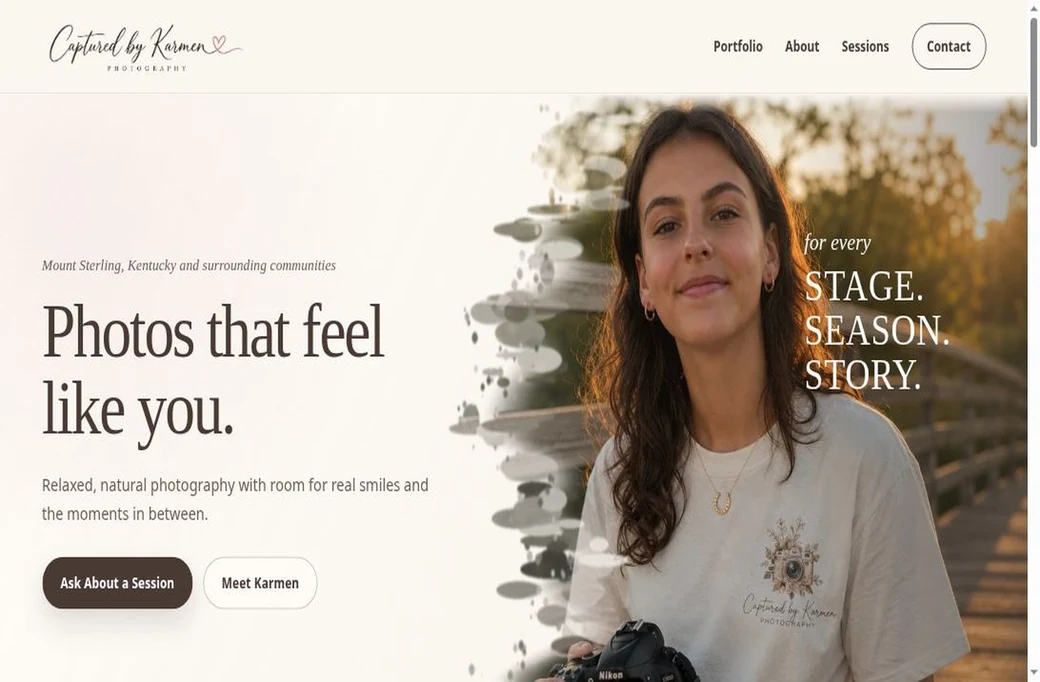
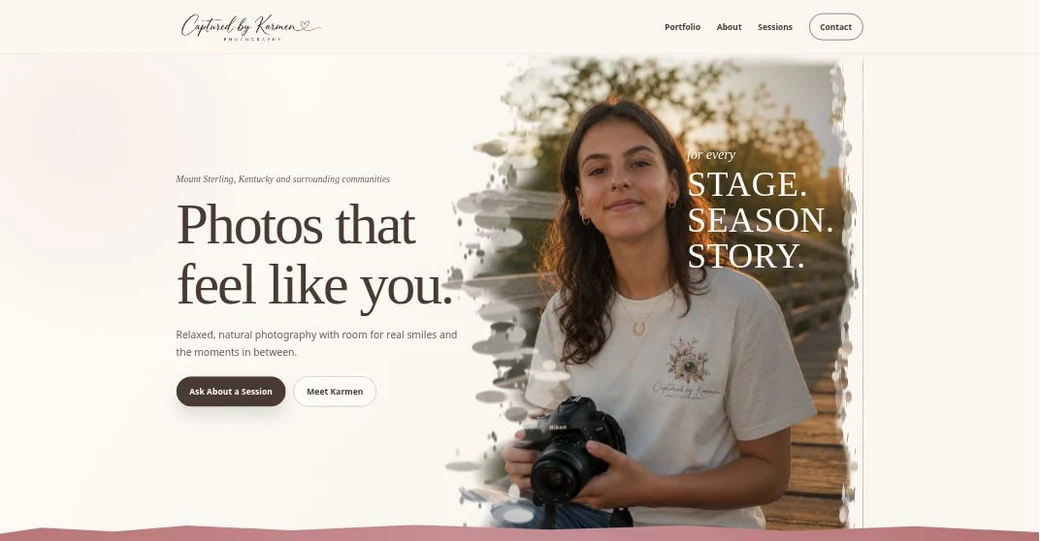
Update the Karmen portfolio screenshot and preserve its real proportions

diff --git a/our-work/index.html b/our-work/index.html
@@ -186,7 +186,7 @@ body:is(.our-work-page,.service-scope-page,.about-page) .footer-bottom{box-shado
         <p class="work-selection-note">Client work, in-house projects and clearly labeled samples. Open any project for the story, preview or working example.</p>
       </div>
     </section>
-<section class="work-exhibition container" aria-label="All 16 projects"><span id="client-projects"></span><span id="interactive-examples"></span><span id="website-examples"></span><article class="work-exhibit" id="eastland" aria-labelledby="work-eastland"><a class="work-exhibit-preview" href="/portfolio/projects/eastland/" aria-label="View Eastland First Church of God project"><img src="../portfolio/showcase/eastland.webp?v=20261119-page-top" width="1300" height="676" loading="eager" decoding="async" alt="Eastland First Church of God project preview"></a><div class="work-exhibit-caption"><p class="work-exhibit-type">01 / Client website</p><h2 id="work-eastland">Eastland First Church of God</h2><p class="work-exhibit-description">Service times, directions, messages and ministries, organized around the next visitor’s questions.</p><a class="work-exhibit-link" href="/portfolio/projects/eastland/">View project<span class="sr-only">: Eastland First Church of God</span></a></div></article><article class="work-exhibit" id="precision-fabrication" aria-labelledby="work-precision-fabrication"><a class="work-exhibit-preview" href="/portfolio/projects/precision-fabrication/" aria-label="View Form / Field project"><img src="../portfolio/showcase/fabrication.jpg?v=20261119-page-top" width="1300" height="676" loading="lazy" decoding="async" alt="Form / Field project preview"></a><div class="work-exhibit-caption"><p class="work-exhibit-type">02 / Sample project</p><h2 id="work-precision-fabrication">Form / Field</h2><p class="work-exhibit-description">Manufacturing website &amp; quote follow-up tracker. Choose a process, then explore the matching follow-up queue.</p><a class="work-exhibit-link" href="/portfolio/projects/precision-fabrication/">View project<span class="sr-only">: Form / Field</span></a></div></article><article class="work-exhibit" id="captured-by-karmen" aria-labelledby="work-captured-by-karmen"><a class="work-exhibit-preview" href="/portfolio/projects/captured-by-karmen/" aria-label="View Captured by Karmen project"><img src="../portfolio/captured-by-karmen-live.webp" width="1300" height="676" loading="lazy" decoding="async" alt="Captured by Karmen project preview"></a><div class="work-exhibit-caption"><p class="work-exhibit-type">03 / In-house website</p><h2 id="work-captured-by-karmen">Captured by Karmen</h2><p class="work-exhibit-description">A photography-led introduction that helps families explore the style and ask about a session.</p><a class="work-exhibit-link" href="/portfolio/projects/captured-by-karmen/">View project<span class="sr-only">: Captured by Karmen</span></a></div></article><article class="work-exhibit" id="missys-squishies" aria-labelledby="work-missys-squishies"><a class="work-exhibit-preview" href="/portfolio/projects/missys-squishies/" aria-label="View Missy’s Squishies and More project"><img src="../portfolio/showcase/missy-redacted.png" width="1300" height="676" loading="lazy" decoding="async" alt="Missy’s Squishies and More project preview"></a><div class="work-exhibit-caption"><p class="work-exhibit-type">04 / Client workbook · redacted preview</p><h2 id="work-missys-squishies">Missy’s Squishies and More</h2><p class="work-exhibit-description">A custom workbook for inventory, checkout totals and the work of packing, pickup and shipping.</p><a class="work-exhibit-link" href="/portfolio/projects/missys-squishies/">View project<span class="sr-only">: Missy’s Squishies and More</span></a></div></article><article class="work-exhibit" id="store" aria-labelledby="work-store"><a class="work-exhibit-preview" href="/portfolio/projects/store/" aria-label="View Silt &amp; Ember project"><img src="../portfolio/showcase/store.jpg?v=20261119-page-top" width="1300" height="676" loading="lazy" decoding="async" alt="Silt &amp; Ember project preview"></a><div class="work-exhibit-caption"><p class="work-exhibit-type">05 / Sample project</p><h2 id="work-store">Silt &amp; Ember</h2><p class="work-exhibit-description">Storefront website &amp; pickup/shipping tracker. Choose an object, preview checkout, then review dispatch.</p><a class="work-exhibit-link" href="/portfolio/projects/store/">View project<span class="sr-only">: Silt &amp; Ember</span></a></div></article><article class="work-exhibit" id="pizzeria" aria-labelledby="work-pizzeria"><a class="work-exhibit-preview" href="/portfolio/projects/pizzeria/" aria-label="View Red Fold project"><img src="../portfolio/showcase/pizzeria.jpg?v=20261119-page-top" width="1300" height="676" loading="lazy" decoding="async" alt="Red Fold project preview"></a><div class="work-exhibit-caption"><p class="work-exhibit-type">06 / Sample project</p><h2 id="work-pizzeria">Red Fold</h2><p class="work-exhibit-description">Restaurant pickup website. Build a pizza ticket and choose a sample pickup window.</p><a class="work-exhibit-link" href="/portfolio/projects/pizzeria/">View project<span class="sr-only">: Red Fold</span></a></div></article><article class="work-exhibit" id="bike-repair" aria-labelledby="work-bike-repair"><a class="work-exhibit-preview" href="/portfolio/projects/bike-repair/" aria-label="View Spoke Too Soon project"><img src="../portfolio/showcase/bike.jpg?v=20261119-page-top" width="1300" height="676" loading="lazy" decoding="async" alt="Spoke Too Soon project preview"></a><div class="work-exhibit-caption"><p class="work-exhibit-type">07 / Sample project</p><h2 id="work-bike-repair">Spoke Too Soon</h2><p class="work-exhibit-description">Appointment booking website. Compare repairs, choose a drop-off and review the plan.</p><a class="work-exhibit-link" href="/portfolio/projects/bike-repair/">View project<span class="sr-only">: Spoke Too Soon</span></a></div></article><article class="work-exhibit" id="orchard" aria-labelledby="work-orchard"><a class="work-exhibit-preview" href="/portfolio/projects/orchard/" aria-label="View The Core Issue project"><img src="../portfolio/showcase/orchard.jpg?v=20261119-page-top" width="1300" height="676" loading="lazy" decoding="async" alt="The Core Issue project preview"></a><div class="work-exhibit-caption"><p class="work-exhibit-type">08 / Sample project</p><h2 id="work-orchard">The Core Issue</h2><p class="work-exhibit-description">Visitor information website. Close the fields and see the visit plan change.</p><a class="work-exhibit-link" href="/portfolio/projects/orchard/">View project<span class="sr-only">: The Core Issue</span></a></div></article><article class="work-exhibit" id="repair-cafe" aria-labelledby="work-repair-cafe"><a class="work-exhibit-preview" href="/portfolio/projects/repair-cafe/" aria-label="View Fix It &amp; Quit It project"><img src="../portfolio/showcase/repair.jpg?v=20261119-page-top" width="1300" height="676" loading="lazy" decoding="async" alt="Fix It &amp; Quit It project preview"></a><div class="work-exhibit-caption"><p class="work-exhibit-type">09 / Sample project</p><h2 id="work-repair-cafe">Fix It &amp; Quit It</h2><p class="work-exhibit-description">Resource finder website. Match an item and a goal to a sample resource route.</p><a class="work-exhibit-link" href="/portfolio/projects/repair-cafe/">View project<span class="sr-only">: Fix It &amp; Quit It</span></a></div></article><article class="work-exhibit" id="print-review" aria-labelledby="work-print-review"><a class="work-exhibit-preview" href="/portfolio/projects/print-review/" aria-label="View Proof, There It Is project"><img src="../portfolio/showcase/print.jpg?v=20261119-page-top" width="1300" height="676" loading="lazy" decoding="async" alt="Proof, There It Is project preview"></a><div class="work-exhibit-caption"><p class="work-exhibit-type">10 / Sample project</p><h2 id="work-print-review">Proof, There It Is</h2><p class="work-exhibit-description">Client review website. Compare revisions and stage a review response.</p><a class="work-exhibit-link" href="/portfolio/projects/print-review/">View project<span class="sr-only">: Proof, There It Is</span></a></div></article><article class="work-exhibit" id="inventory-tracker" aria-labelledby="work-inventory-tracker"><a class="work-exhibit-preview" href="/portfolio/projects/inventory-tracker/" aria-label="View Second Shelf Supply project"><img src="../portfolio/showcase/inventory-tracker.jpg" width="1300" height="676" loading="lazy" decoding="async" alt="Second Shelf Supply project preview"></a><div class="work-exhibit-caption"><p class="work-exhibit-type">11 / Sample project</p><h2 id="work-inventory-tracker">Second Shelf Supply</h2><p class="work-exhibit-description">Inventory tracker. Reduce an over-reservation and check available stock.</p><a class="work-exhibit-link" href="/portfolio/projects/inventory-tracker/">View project<span class="sr-only">: Second Shelf Supply</span></a></div></article><article class="work-exhibit" id="job-capacity" aria-labelledby="work-job-capacity"><a class="work-exhibit-preview" href="/portfolio/projects/job-capacity/" aria-label="View Benchline Workshop project"><img src="../portfolio/showcase/job-capacity.jpg" width="1300" height="676" loading="lazy" decoding="async" alt="Benchline Workshop project preview"></a><div class="work-exhibit-caption"><p class="work-exhibit-type">12 / Sample project</p><h2 id="work-job-capacity">Benchline Workshop</h2><p class="work-exhibit-description">Job capacity planner. Move a job and compare the two weeks’ workloads.</p><a class="work-exhibit-link" href="/portfolio/projects/job-capacity/">View project<span class="sr-only">: Benchline Workshop</span></a></div></article><article class="work-exhibit" id="receipt-tracker" aria-labelledby="work-receipt-tracker"><a class="work-exhibit-preview" href="/portfolio/projects/receipt-tracker/" aria-label="View Paper Trail Goods project"><img src="../portfolio/showcase/receipt-tracker.jpg" width="1300" height="676" loading="lazy" decoding="async" alt="Paper Trail Goods project preview"></a><div class="work-exhibit-caption"><p class="work-exhibit-type">13 / Sample project</p><h2 id="work-receipt-tracker">Paper Trail Goods</h2><p class="work-exhibit-description">Receipt tracker. Receive a document without marking it paid.</p><a class="work-exhibit-link" href="/portfolio/projects/receipt-tracker/">View project<span class="sr-only">: Paper Trail Goods</span></a></div></article><article class="work-exhibit" id="staffing-coverage" aria-labelledby="work-staffing-coverage"><a class="work-exhibit-preview" href="/portfolio/projects/staffing-coverage/" aria-label="View Clockwise Coffee project"><img src="../portfolio/showcase/staffing-coverage.jpg" width="1300" height="676" loading="lazy" decoding="async" alt="Clockwise Coffee project preview"></a><div class="work-exhibit-caption"><p class="work-exhibit-type">14 / Sample project</p><h2 id="work-staffing-coverage">Clockwise Coffee</h2><p class="work-exhibit-description">Staffing coverage planner. Close one role’s shortfall without hiding another.</p><a class="work-exhibit-link" href="/portfolio/projects/staffing-coverage/">View project<span class="sr-only">: Clockwise Coffee</span></a></div></article><article class="work-exhibit" id="howl-and-timber" aria-labelledby="work-howl-and-timber"><a class="work-exhibit-preview" href="/portfolio/projects/howl-and-timber/" aria-label="View Howl &amp; Timber project"><img src="../assets/images/our-work/howl-and-timber-website-preview.jpg?v=20261119-page-top" width="1300" height="676" loading="lazy" decoding="async" alt="Howl &amp; Timber project preview"></a><div class="work-exhibit-caption"><p class="work-exhibit-type">15 / Sample project</p><h2 id="work-howl-and-timber">Howl &amp; Timber</h2><p class="work-exhibit-description">An alpine-inspired law-firm concept with expandable practice topics and a first-conversation guide.</p><a class="work-exhibit-link" href="/portfolio/projects/howl-and-timber/">View project<span class="sr-only">: Howl &amp; Timber</span></a></div></article><article class="work-exhibit" id="cortez-capital" aria-labelledby="work-cortez-capital"><a class="work-exhibit-preview" href="/portfolio/projects/cortez-capital/" aria-label="View Cortez Capital project"><img src="../assets/images/our-work/cortez-capital-website-preview.jpg?v=20261119-page-top" width="1300" height="676" loading="lazy" decoding="async" alt="Cortez Capital project preview"></a><div class="work-exhibit-caption"><p class="work-exhibit-type">16 / Sample project</p><h2 id="work-cortez-capital">Cortez Capital</h2><p class="work-exhibit-description">A restrained holding-company concept with an interactive focus-area explorer.</p><a class="work-exhibit-link" href="/portfolio/projects/cortez-capital/">View project<span class="sr-only">: Cortez Capital</span></a></div></article></section>
+<section class="work-exhibition container" aria-label="All 16 projects"><span id="client-projects"></span><span id="interactive-examples"></span><span id="website-examples"></span><article class="work-exhibit" id="eastland" aria-labelledby="work-eastland"><a class="work-exhibit-preview" href="/portfolio/projects/eastland/" aria-label="View Eastland First Church of God project"><img src="../portfolio/showcase/eastland.webp?v=20261119-page-top" width="1300" height="676" loading="eager" decoding="async" alt="Eastland First Church of God project preview"></a><div class="work-exhibit-caption"><p class="work-exhibit-type">01 / Client website</p><h2 id="work-eastland">Eastland First Church of God</h2><p class="work-exhibit-description">Service times, directions, messages and ministries, organized around the next visitor’s questions.</p><a class="work-exhibit-link" href="/portfolio/projects/eastland/">View project<span class="sr-only">: Eastland First Church of God</span></a></div></article><article class="work-exhibit" id="precision-fabrication" aria-labelledby="work-precision-fabrication"><a class="work-exhibit-preview" href="/portfolio/projects/precision-fabrication/" aria-label="View Form / Field project"><img src="../portfolio/showcase/fabrication.jpg?v=20261119-page-top" width="1300" height="676" loading="lazy" decoding="async" alt="Form / Field project preview"></a><div class="work-exhibit-caption"><p class="work-exhibit-type">02 / Sample project</p><h2 id="work-precision-fabrication">Form / Field</h2><p class="work-exhibit-description">Manufacturing website &amp; quote follow-up tracker. Choose a process, then explore the matching follow-up queue.</p><a class="work-exhibit-link" href="/portfolio/projects/precision-fabrication/">View project<span class="sr-only">: Form / Field</span></a></div></article><article class="work-exhibit" id="captured-by-karmen" aria-labelledby="work-captured-by-karmen"><a class="work-exhibit-preview" href="/portfolio/projects/captured-by-karmen/" aria-label="View Captured by Karmen project"><img src="../portfolio/captured-by-karmen-live.webp?v=20261119-brush-edges" width="1200" height="625" loading="lazy" decoding="async" alt="Captured by Karmen project preview"></a><div class="work-exhibit-caption"><p class="work-exhibit-type">03 / In-house website</p><h2 id="work-captured-by-karmen">Captured by Karmen</h2><p class="work-exhibit-description">A photography-led introduction that helps families explore the style and ask about a session.</p><a class="work-exhibit-link" href="/portfolio/projects/captured-by-karmen/">View project<span class="sr-only">: Captured by Karmen</span></a></div></article><article class="work-exhibit" id="missys-squishies" aria-labelledby="work-missys-squishies"><a class="work-exhibit-preview" href="/portfolio/projects/missys-squishies/" aria-label="View Missy’s Squishies and More project"><img src="../portfolio/showcase/missy-redacted.png" width="1300" height="676" loading="lazy" decoding="async" alt="Missy’s Squishies and More project preview"></a><div class="work-exhibit-caption"><p class="work-exhibit-type">04 / Client workbook · redacted preview</p><h2 id="work-missys-squishies">Missy’s Squishies and More</h2><p class="work-exhibit-description">A custom workbook for inventory, checkout totals and the work of packing, pickup and shipping.</p><a class="work-exhibit-link" href="/portfolio/projects/missys-squishies/">View project<span class="sr-only">: Missy’s Squishies and More</span></a></div></article><article class="work-exhibit" id="store" aria-labelledby="work-store"><a class="work-exhibit-preview" href="/portfolio/projects/store/" aria-label="View Silt &amp; Ember project"><img src="../portfolio/showcase/store.jpg?v=20261119-page-top" width="1300" height="676" loading="lazy" decoding="async" alt="Silt &amp; Ember project preview"></a><div class="work-exhibit-caption"><p class="work-exhibit-type">05 / Sample project</p><h2 id="work-store">Silt &amp; Ember</h2><p class="work-exhibit-description">Storefront website &amp; pickup/shipping tracker. Choose an object, preview checkout, then review dispatch.</p><a class="work-exhibit-link" href="/portfolio/projects/store/">View project<span class="sr-only">: Silt &amp; Ember</span></a></div></article><article class="work-exhibit" id="pizzeria" aria-labelledby="work-pizzeria"><a class="work-exhibit-preview" href="/portfolio/projects/pizzeria/" aria-label="View Red Fold project"><img src="../portfolio/showcase/pizzeria.jpg?v=20261119-page-top" width="1300" height="676" loading="lazy" decoding="async" alt="Red Fold project preview"></a><div class="work-exhibit-caption"><p class="work-exhibit-type">06 / Sample project</p><h2 id="work-pizzeria">Red Fold</h2><p class="work-exhibit-description">Restaurant pickup website. Build a pizza ticket and choose a sample pickup window.</p><a class="work-exhibit-link" href="/portfolio/projects/pizzeria/">View project<span class="sr-only">: Red Fold</span></a></div></article><article class="work-exhibit" id="bike-repair" aria-labelledby="work-bike-repair"><a class="work-exhibit-preview" href="/portfolio/projects/bike-repair/" aria-label="View Spoke Too Soon project"><img src="../portfolio/showcase/bike.jpg?v=20261119-page-top" width="1300" height="676" loading="lazy" decoding="async" alt="Spoke Too Soon project preview"></a><div class="work-exhibit-caption"><p class="work-exhibit-type">07 / Sample project</p><h2 id="work-bike-repair">Spoke Too Soon</h2><p class="work-exhibit-description">Appointment booking website. Compare repairs, choose a drop-off and review the plan.</p><a class="work-exhibit-link" href="/portfolio/projects/bike-repair/">View project<span class="sr-only">: Spoke Too Soon</span></a></div></article><article class="work-exhibit" id="orchard" aria-labelledby="work-orchard"><a class="work-exhibit-preview" href="/portfolio/projects/orchard/" aria-label="View The Core Issue project"><img src="../portfolio/showcase/orchard.jpg?v=20261119-page-top" width="1300" height="676" loading="lazy" decoding="async" alt="The Core Issue project preview"></a><div class="work-exhibit-caption"><p class="work-exhibit-type">08 / Sample project</p><h2 id="work-orchard">The Core Issue</h2><p class="work-exhibit-description">Visitor information website. Close the fields and see the visit plan change.</p><a class="work-exhibit-link" href="/portfolio/projects/orchard/">View project<span class="sr-only">: The Core Issue</span></a></div></article><article class="work-exhibit" id="repair-cafe" aria-labelledby="work-repair-cafe"><a class="work-exhibit-preview" href="/portfolio/projects/repair-cafe/" aria-label="View Fix It &amp; Quit It project"><img src="../portfolio/showcase/repair.jpg?v=20261119-page-top" width="1300" height="676" loading="lazy" decoding="async" alt="Fix It &amp; Quit It project preview"></a><div class="work-exhibit-caption"><p class="work-exhibit-type">09 / Sample project</p><h2 id="work-repair-cafe">Fix It &amp; Quit It</h2><p class="work-exhibit-description">Resource finder website. Match an item and a goal to a sample resource route.</p><a class="work-exhibit-link" href="/portfolio/projects/repair-cafe/">View project<span class="sr-only">: Fix It &amp; Quit It</span></a></div></article><article class="work-exhibit" id="print-review" aria-labelledby="work-print-review"><a class="work-exhibit-preview" href="/portfolio/projects/print-review/" aria-label="View Proof, There It Is project"><img src="../portfolio/showcase/print.jpg?v=20261119-page-top" width="1300" height="676" loading="lazy" decoding="async" alt="Proof, There It Is project preview"></a><div class="work-exhibit-caption"><p class="work-exhibit-type">10 / Sample project</p><h2 id="work-print-review">Proof, There It Is</h2><p class="work-exhibit-description">Client review website. Compare revisions and stage a review response.</p><a class="work-exhibit-link" href="/portfolio/projects/print-review/">View project<span class="sr-only">: Proof, There It Is</span></a></div></article><article class="work-exhibit" id="inventory-tracker" aria-labelledby="work-inventory-tracker"><a class="work-exhibit-preview" href="/portfolio/projects/inventory-tracker/" aria-label="View Second Shelf Supply project"><img src="../portfolio/showcase/inventory-tracker.jpg" width="1300" height="676" loading="lazy" decoding="async" alt="Second Shelf Supply project preview"></a><div class="work-exhibit-caption"><p class="work-exhibit-type">11 / Sample project</p><h2 id="work-inventory-tracker">Second Shelf Supply</h2><p class="work-exhibit-description">Inventory tracker. Reduce an over-reservation and check available stock.</p><a class="work-exhibit-link" href="/portfolio/projects/inventory-tracker/">View project<span class="sr-only">: Second Shelf Supply</span></a></div></article><article class="work-exhibit" id="job-capacity" aria-labelledby="work-job-capacity"><a class="work-exhibit-preview" href="/portfolio/projects/job-capacity/" aria-label="View Benchline Workshop project"><img src="../portfolio/showcase/job-capacity.jpg" width="1300" height="676" loading="lazy" decoding="async" alt="Benchline Workshop project preview"></a><div class="work-exhibit-caption"><p class="work-exhibit-type">12 / Sample project</p><h2 id="work-job-capacity">Benchline Workshop</h2><p class="work-exhibit-description">Job capacity planner. Move a job and compare the two weeks’ workloads.</p><a class="work-exhibit-link" href="/portfolio/projects/job-capacity/">View project<span class="sr-only">: Benchline Workshop</span></a></div></article><article class="work-exhibit" id="receipt-tracker" aria-labelledby="work-receipt-tracker"><a class="work-exhibit-preview" href="/portfolio/projects/receipt-tracker/" aria-label="View Paper Trail Goods project"><img src="../portfolio/showcase/receipt-tracker.jpg" width="1300" height="676" loading="lazy" decoding="async" alt="Paper Trail Goods project preview"></a><div class="work-exhibit-caption"><p class="work-exhibit-type">13 / Sample project</p><h2 id="work-receipt-tracker">Paper Trail Goods</h2><p class="work-exhibit-description">Receipt tracker. Receive a document without marking it paid.</p><a class="work-exhibit-link" href="/portfolio/projects/receipt-tracker/">View project<span class="sr-only">: Paper Trail Goods</span></a></div></article><article class="work-exhibit" id="staffing-coverage" aria-labelledby="work-staffing-coverage"><a class="work-exhibit-preview" href="/portfolio/projects/staffing-coverage/" aria-label="View Clockwise Coffee project"><img src="../portfolio/showcase/staffing-coverage.jpg" width="1300" height="676" loading="lazy" decoding="async" alt="Clockwise Coffee project preview"></a><div class="work-exhibit-caption"><p class="work-exhibit-type">14 / Sample project</p><h2 id="work-staffing-coverage">Clockwise Coffee</h2><p class="work-exhibit-description">Staffing coverage planner. Close one role’s shortfall without hiding another.</p><a class="work-exhibit-link" href="/portfolio/projects/staffing-coverage/">View project<span class="sr-only">: Clockwise Coffee</span></a></div></article><article class="work-exhibit" id="howl-and-timber" aria-labelledby="work-howl-and-timber"><a class="work-exhibit-preview" href="/portfolio/projects/howl-and-timber/" aria-label="View Howl &amp; Timber project"><img src="../assets/images/our-work/howl-and-timber-website-preview.jpg?v=20261119-page-top" width="1300" height="676" loading="lazy" decoding="async" alt="Howl &amp; Timber project preview"></a><div class="work-exhibit-caption"><p class="work-exhibit-type">15 / Sample project</p><h2 id="work-howl-and-timber">Howl &amp; Timber</h2><p class="work-exhibit-description">An alpine-inspired law-firm concept with expandable practice topics and a first-conversation guide.</p><a class="work-exhibit-link" href="/portfolio/projects/howl-and-timber/">View project<span class="sr-only">: Howl &amp; Timber</span></a></div></article><article class="work-exhibit" id="cortez-capital" aria-labelledby="work-cortez-capital"><a class="work-exhibit-preview" href="/portfolio/projects/cortez-capital/" aria-label="View Cortez Capital project"><img src="../assets/images/our-work/cortez-capital-website-preview.jpg?v=20261119-page-top" width="1300" height="676" loading="lazy" decoding="async" alt="Cortez Capital project preview"></a><div class="work-exhibit-caption"><p class="work-exhibit-type">16 / Sample project</p><h2 id="work-cortez-capital">Cortez Capital</h2><p class="work-exhibit-description">A restrained holding-company concept with an interactive focus-area explorer.</p><a class="work-exhibit-link" href="/portfolio/projects/cortez-capital/">View project<span class="sr-only">: Cortez Capital</span></a></div></article></section>
     <section class="section phase3-final-cta work-next-step" aria-labelledby="work-next-step-heading">
       <div class="container phase3-cta-layout">
         <div><p class="eyebrow eyebrow-light">A practical next step</p><h2 id="work-next-step-heading">What do you need help with?</h2><p>Tell us what you want to improve. We agree the scope and quote before paid work begins.</p></div>

diff --git a/portfolio/projects/captured-by-karmen/index.html b/portfolio/projects/captured-by-karmen/index.html
@@ -79,7 +79,7 @@ main>.project-scope{grid-column:1/-1;max-width:none;width:100%;border-top:1px so
 </style></head><body class="case-photography">
[1 lines of base64/hex data omitted]
 <main aria-labelledby="title"><section class="case-brief"><p class="kicker">Photography website</p><h1 id="title">Captured by Karmen</h1><p class="lead">Let the portraits start the conversation.</p><p>Families can get a feel for the photography before asking about a session. The next step is an email inquiry, not an automatic booking.</p><a class="cta" href="https://capturedbykarmen.rogersholdingsllc.com/">Visit the live photography site</a><p class="note">Real in-house project.</p></section>
-<figure><img src="../../captured-by-karmen-live.webp" width="1316" height="685" alt="Captured by Karmen photography website"><figcaption>Actual site capture. Photography work, not a mock device.</figcaption></figure><section class="case-extra" aria-label="Photography inquiry path"><h2>From browsing to asking</h2><ol><li><strong>Browse the portraits.</strong><span>See the style before deciding if it fits.</span></li><li><strong>Think about your session.</strong><span>Come with a rough date and the kind of photos you have in mind.</span></li><li><strong>Start by email.</strong><span>The photographer can discuss what fits before anything is booked.</span></li></ol></section>
+<figure><img src="../../captured-by-karmen-live.webp?v=20261119-brush-edges" srcset="../../showcase/responsive/captured-by-karmen-live-520.webp?v=20261119-brush-edges 520w, ../../showcase/responsive/captured-by-karmen-live-1040.webp?v=20261119-brush-edges 1040w, ../../captured-by-karmen-live.webp?v=20261119-brush-edges 1200w" sizes="(max-width:760px) calc(100vw - 32px), (max-width:1240px) 58vw, 700px" width="1200" height="625" alt="Captured by Karmen homepage with her full portrait and camera"><figcaption>Actual site capture. Photography work, not a mock device.</figcaption></figure><section class="case-extra" aria-label="Photography inquiry path"><h2>From browsing to asking</h2><ol><li><strong>Browse the portraits.</strong><span>See the style before deciding if it fits.</span></li><li><strong>Think about your session.</strong><span>Come with a rough date and the kind of photos you have in mind.</span></li><li><strong>Start by email.</strong><span>The photographer can discuss what fits before anything is booked.</span></li></ol></section>
 <section class="project-scope" aria-label="Project scope"><article><h2>What we did</h2><p>Built a photography-led site with a coordinated rose, sage and cream palette, portfolio presentation and clear session expectations. The current contact path is email only, not a booking form.</p></article><article><h2>How it helps</h2><p>Visitors can see the photographic style, consider their session and start a conversation before any booking is agreed.</p></article><article><h2>Services included</h2><ul><li>Portfolio website design</li><li>Light visual alignment and page copy</li><li>Session information and email inquiry path</li></ul></article></section>
 </main>
 <footer>Portfolio by Rogers Holdings LLC.</footer></body></html>

diff --git a/index.html b/index.html
@@ -1166,7 +1166,7 @@ main.gallery-home{background:radial-gradient(ellipse 100% 22rem at 44% 14%,#2a30
 <span class="anchor-slot" id="demos" aria-hidden="true"></span><span class="anchor-slot" id="spreadsheets" aria-hidden="true"></span><span class="anchor-slot" id="eastland-work" aria-hidden="true"></span>
 <div class="rh-orbit-stage" tabindex="0" role="group" aria-label="Portfolio carousel. Use left and right arrow keys to rotate." aria-describedby="rh-orbit-help">
 <div class="rh-orbit-ring">
-<figure class="rh-orbit-panel is-front" data-depth="0" style="--rh-angle:0.000000deg"><a class="rh-orbit-frame rh-orbit-screen-link" href="/portfolio/projects/captured-by-karmen/" aria-label="View Captured by Karmen — In-house project · Photography website details" tabindex="0" draggable="false"><img src="portfolio/captured-by-karmen-live.webp" srcset="portfolio/showcase/responsive/captured-by-karmen-live-520.webp 520w, portfolio/showcase/responsive/captured-by-karmen-live-1040.webp 1040w, portfolio/captured-by-karmen-live.webp 1200w" sizes="(max-width: 860px) min(125vw, 640px), 640px" alt="Captured by Karmen — In-house project · Photography website preview" width="1316" height="685" fetchpriority="high" decoding="async"></a><div class="rh-orbit-back" aria-hidden="true"><img src="portfolio/captured-by-karmen-live.webp" srcset="portfolio/showcase/responsive/captured-by-karmen-live-520.webp 520w, portfolio/showcase/responsive/captured-by-karmen-live-1040.webp 1040w, portfolio/captured-by-karmen-live.webp 1200w" sizes="(max-width: 860px) min(125vw, 640px), 640px" width="1316" height="685" alt="" loading="eager" decoding="async"></div></figure>
+<figure class="rh-orbit-panel is-front" data-depth="0" style="--rh-angle:0.000000deg"><a class="rh-orbit-frame rh-orbit-screen-link" href="/portfolio/projects/captured-by-karmen/" aria-label="View Captured by Karmen — In-house project · Photography website details" tabindex="0" draggable="false"><img src="portfolio/captured-by-karmen-live.webp?v=20261119-brush-edges" srcset="portfolio/showcase/responsive/captured-by-karmen-live-520.webp?v=20261119-brush-edges 520w, portfolio/showcase/responsive/captured-by-karmen-live-1040.webp?v=20261119-brush-edges 1040w, portfolio/captured-by-karmen-live.webp?v=20261119-brush-edges 1200w" sizes="(max-width: 860px) min(125vw, 640px), 640px" alt="Captured by Karmen — In-house project · Photography website preview" width="1200" height="625" fetchpriority="high" decoding="async"></a><div class="rh-orbit-back" aria-hidden="true"><img src="portfolio/captured-by-karmen-live.webp?v=20261119-brush-edges" srcset="portfolio/showcase/responsive/captured-by-karmen-live-520.webp?v=20261119-brush-edges 520w, portfolio/showcase/responsive/captured-by-karmen-live-1040.webp?v=20261119-brush-edges 1040w, portfolio/captured-by-karmen-live.webp?v=20261119-brush-edges 1200w" sizes="(max-width: 860px) min(125vw, 640px), 640px" width="1200" height="625" alt="" loading="eager" decoding="async"></div></figure>
 <figure class="rh-orbit-panel" data-depth="1" style="--rh-angle:25.714286deg" aria-hidden="true"><a class="rh-orbit-frame rh-orbit-screen-link" href="/portfolio/projects/eastland/" aria-label="View Eastland First Church of God — Client project · Church website details" tabindex="-1" draggable="false"><img src="portfolio/showcase/eastland.webp?v=20261119-page-top" srcset="portfolio/showcase/responsive/eastland-520.webp?v=20261119-page-top 520w, portfolio/showcase/eastland.webp?v=20261119-page-top 900w" sizes="(max-width: 860px) min(125vw, 640px), 640px" alt="" width="1316" height="685" loading="eager" decoding="async"></a><div class="rh-orbit-back" aria-hidden="true"><img src="portfolio/showcase/eastland.webp?v=20261119-page-top" srcset="portfolio/showcase/responsive/eastland-520.webp?v=20261119-page-top 520w, portfolio/showcase/eastland.webp?v=20261119-page-top 900w" sizes="(max-width: 860px) min(125vw, 640px), 640px" width="1316" height="685" alt="" loading="eager" decoding="async"></div></figure>
 <figure class="rh-orbit-panel" data-depth="2" style="--rh-angle:51.428571deg" aria-hidden="true"><a class="rh-orbit-frame rh-orbit-screen-link" href="/portfolio/projects/store/" aria-label="View Silt &amp; Ember — Sample project · Storefront website &amp; order tracker details" tabindex="-1" draggable="false"><img src="portfolio/showcase/store.jpg?v=20261119-page-top" srcset="portfolio/showcase/responsive/store-520.webp?v=20261119-page-top 520w, portfolio/showcase/responsive/store-1040.webp?v=20261119-page-top 1040w, portfolio/showcase/responsive/store-1300.webp?v=20261119-page-top 1300w" sizes="(max-width: 860px) min(125vw, 640px), 640px" alt="" width="1300" height="676" loading="eager" decoding="async"></a><div class="rh-orbit-back" aria-hidden="true"><img src="portfolio/showcase/store.jpg?v=20261119-page-top" srcset="portfolio/showcase/responsive/store-520.webp?v=20261119-page-top 520w, portfolio/showcase/responsive/store-1040.webp?v=20261119-page-top 1040w, portfolio/showcase/responsive/store-1300.webp?v=20261119-page-top 1300w" sizes="(max-width: 860px) min(125vw, 640px), 640px" width="1300" height="676" alt="" loading="eager" decoding="async"></div></figure>
 
